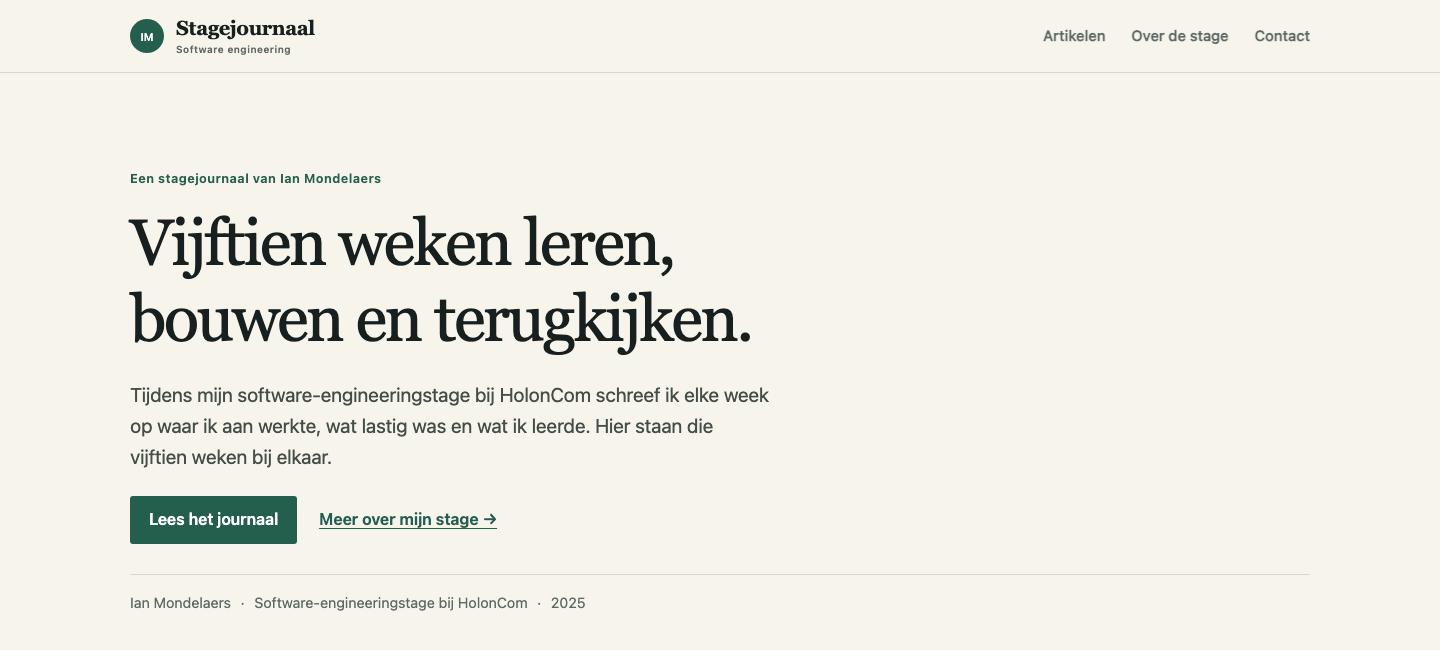
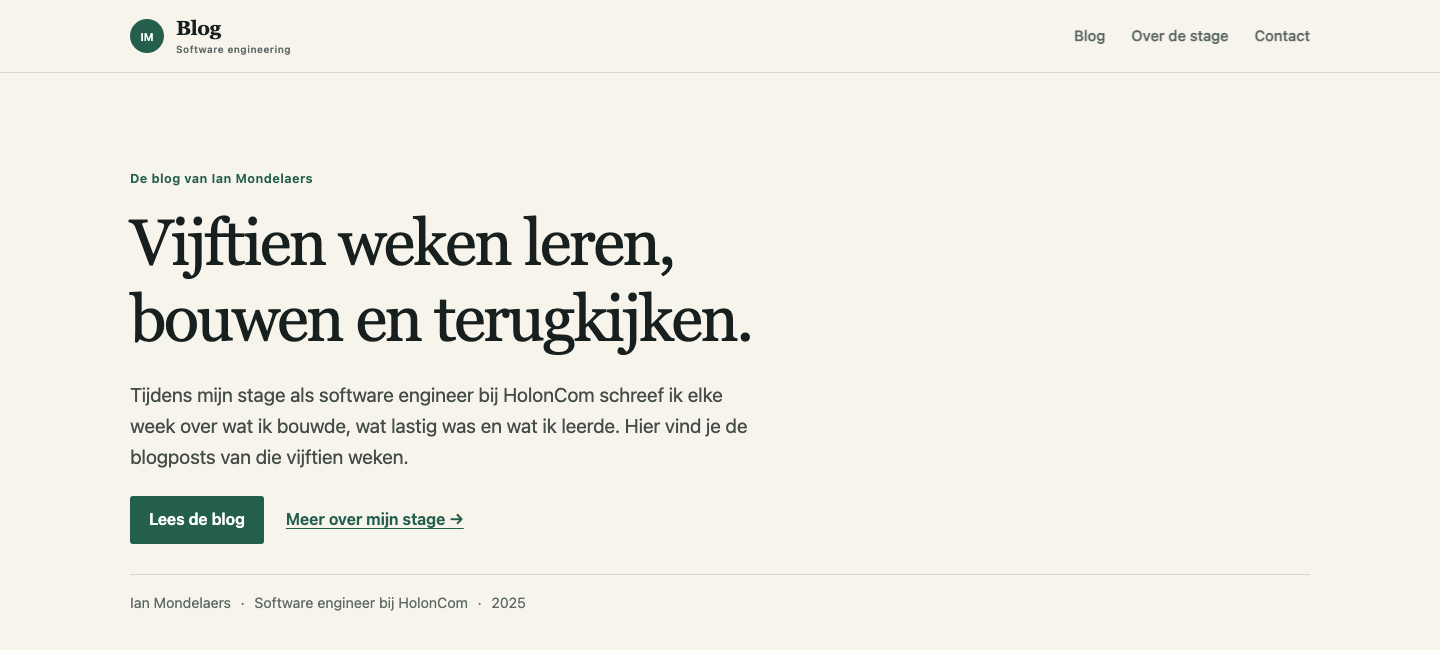
docs: align repository description and homepage preview with blog

diff --git a/README.md b/README.md
@@ -1,17 +1,17 @@
-# Software Engineering Internship Journal
+# Blog van Ian Mondelaers
 
 [![Quality](https://github.com/DenGian/blog/actions/workflows/ci.yml/badge.svg)](https://github.com/DenGian/blog/actions/workflows/ci.yml) [![License: MIT](https://img.shields.io/badge/License-MIT-green.svg)](LICENSE) · [Live site](https://holoncom-blog.vercel.app/)
 
-A deployed Dutch internship journal and a protected single-admin CMS. Live at [holoncom-blog.vercel.app](https://holoncom-blog.vercel.app/). Fifteen original weekly articles document Ian Mondelaers’ workplace learning at HolonCom; the application around them is a production-minded Next.js portfolio project.
+A Dutch blog about Ian Mondelaers’ 15-week internship as a software engineer at HolonCom in 2025, with a protected single-admin CMS. Live at [holoncom-blog.vercel.app](https://holoncom-blog.vercel.app/). The 15 original weekly posts remain historical writing; the application around them is a Next.js portfolio project.
 
-The articles are intentionally kept in Dutch and are not rewritten by the platform.
+The original blogposts remain in Dutch and are not rewritten by the platform.
 
-![Current journal homepage introduction](docs/assets/homepage.png)
+![Blog homepage introduction](docs/assets/homepage.png)
 
 ## What is implemented
 
 - App Router with server components by default and bounded dynamic MongoDB reads
-- Dutch article index, safe search, tag filters, pagination, reading time, adjacent navigation, print styles, and resilient cover images
+- Dutch blogpost index, safe search, tag filters, pagination, reading time, adjacent navigation, print styles, and resilient cover images
 - Encrypted server-side admin session, bcrypt password verification, origin checks, and authorization on every mutation
 - Draft, preview, publish, unpublish, edit, collision-safe slug, and explicit delete workflows
 - Shared Zod validation and restrictive server-side rich HTML sanitization
@@ -105,7 +105,7 @@ Reports use the unambiguous modes `MIGRATION_DRY_RUN`, `MIGRATION_APPLY`, `INDEX
 
 ## Cover media and licensing
 
-The fifteen legacy slugs render project-original, code-native SVG illustrations from `public/covers/`; they were created specifically for this journal and contain no copied photos, logos, fonts, raster data, or external resources. A typed slug map overrides the old database URLs immediately. The optional migration later stores those local paths without downloading or redistributing the former remote images.
+The fifteen legacy slugs render project-original, code-native SVG illustrations from `public/covers/`; they were created specifically for this blog and contain no copied photos, logos, fonts, raster data, or external resources. A typed slug map overrides the old database URLs immediately. The optional migration later stores those local paths without downloading or redistributing the former remote images.
 
 Only upload or reference media you own or are licensed to publish. Prefer local project assets or configured Cloudinary delivery. An arbitrary HTTPS field remains available for appropriately licensed media, but it is not permission to hotlink third-party sites.
 
@@ -131,7 +131,7 @@ The complete internship PDF was not present during the overhaul. Add the real do
 
 ## Deployment
 
-The site is deployed on Vercel. On 24 September 2026, the production site served all 15 original article URLs, all 15 local covers, the sitemap, and the feed. See the [deployment runbook](docs/deployment-runbook.md) and [public-release checklist](docs/public-release.md) for configuration and release checks. Do not run the migration to repair a missing or failing production connection.
+The site is deployed on Vercel. On 24 September 2026, the production site served all 15 original blogpost URLs, all 15 local covers, the sitemap, and the feed. See the [deployment runbook](docs/deployment-runbook.md) and [public-release checklist](docs/public-release.md) for configuration and release checks. Do not run the migration to repair a missing or failing production connection.
 
 ## Limitations and next steps
 
@@ -143,4 +143,4 @@ The site is deployed on Vercel. On 24 September 2026, the production site served
 
 ## License and portfolio context
 
-The application source code is available under the MIT License. Written internship articles, personal photographs, and other original personal media remain © Ian Mondelaers and are not licensed under MIT. See [`LICENSE`](LICENSE) for the standard MIT code license and [`CONTENT_LICENSE.md`](CONTENT_LICENSE.md) for the content boundary.
+The application source code is available under the MIT License. Written internship blogposts, personal photographs, and other original personal media remain © Ian Mondelaers and are not licensed under MIT. See [`LICENSE`](LICENSE) for the standard MIT code license and [`CONTENT_LICENSE.md`](CONTENT_LICENSE.md) for the content boundary.

diff --git a/docs/deployment-runbook.md b/docs/deployment-runbook.md
@@ -1,6 +1,6 @@
 # Deployment and migration runbook
 
-The application is deployed at https://holoncom-blog.vercel.app/. On 24 September 2026, all 15 public article URLs, local covers, sitemap entries, and feed entries were reachable. A read-only local export also confirmed the original posts in `blog_portfolio.posts`. Review Vercel runtime logs and environment scopes if retrieval fails later; do not change data to diagnose connectivity.
+The application is deployed at https://holoncom-blog.vercel.app/. On 24 September 2026, all 15 public blogpost URLs, local covers, sitemap entries, and feed entries were reachable. A read-only local export also confirmed the original posts in `blog_portfolio.posts`. Review Vercel runtime logs and environment scopes if retrieval fails later; do not change data to diagnose connectivity.
 
 ## 1. Rotate credentials
 
@@ -8,7 +8,7 @@ Before relaunch, rotate the old admin credential, MongoDB application credential
 
 ## 2. MongoDB Atlas
 
-1. Create a dedicated application user with read/write access only to the journal database; do not use an Atlas owner or broad cluster-admin credential.
+1. Create a dedicated application user with read/write access only to the blog database; do not use an Atlas owner or broad cluster-admin credential.
 2. Use a separate database/user for preview and automated tests.
 3. Restrict network access according to the Vercel/Atlas integration guidance. Avoid `0.0.0.0/0` where an integration or controlled egress option is available.
 4. Set `MONGODB_URI` and `MONGODB_DATABASE` only in Vercel’s encrypted server environment. Preview and Production variables are separate: a Production-only `MONGODB_URI` is unavailable to pull-request Preview deployments, so configure isolated Preview credentials if Preview database-backed pages or CMS testing must work.
@@ -114,4 +114,4 @@ Passing these checks is not evidence of deployment, penetration testing, an exte
 
 ## 11. Related PDF repository
 
-After this application is public and the real PDF is available here, archive the separate PDF-only repository with a concise redirect to the live journal. If it has no inbound links or independent value, making it private is preferable. Do not modify that repository before confirming links and ownership.
+After this application is public and the real PDF is available here, archive the separate PDF-only repository with a concise redirect to the live blog. If it has no inbound links or independent value, making it private is preferable. Do not modify that repository before confirming links and ownership.

diff --git a/docs/public-release.md b/docs/public-release.md
@@ -8,14 +8,14 @@ This is a preparation checklist. Do not change repository visibility until the p
 2. If the URI is present but connection fails, check that the Atlas user can read `blog_portfolio.posts`, its credential has not expired, and Atlas network access admits the Vercel deployment. Use a least-privilege user. The local read-only export found all 15 legacy posts; a migration is not the connectivity fix.
 3. Replace the old exposed admin password with a new password and set its bcrypt `ADMIN_PASSWORD_HASH`. Configure a distinct `SESSION_SECRET` and both `UPSTASH_REDIS_REST_URL` and `UPSTASH_REDIS_REST_TOKEN` for production login.
 4. Set optional Cloudinary credentials together only if uploads are needed. Check the public GitHub and LinkedIn URLs before setting `NEXT_PUBLIC_GITHUB_URL` and `NEXT_PUBLIC_LINKEDIN_URL`.
-5. Redeploy after editing Vercel variables. Verify all 15 article URLs, sitemap entries, Atom entries, canonical URLs, covers, admin login and logout, then review runtime logs again.
+5. Redeploy after editing Vercel variables. Verify all 15 blogpost URLs, sitemap entries, Atom entries, canonical URLs, covers, admin login and logout, then review runtime logs again.
 6. Give Preview a separate database or a read-only production-data user. Preview must have no production CMS mutation access and must use a different session secret.
 
 See [deployment-runbook.md](deployment-runbook.md) for the complete variable table and migration process.
 
 ## GitHub metadata after review
 
-- Description: `A Dutch software engineering internship journal and Next.js CMS documenting 15 weeks at HolonCom.`
+- Description: `A Dutch blog about 15 weeks as a software engineer at HolonCom, with a Next.js CMS.`
 - Homepage: `https://holoncom-blog.vercel.app/`
 - Topics: `nextjs`, `typescript`, `react`, `mongodb`, `cms`, `blog`, `portfolio`, `vercel`, `playwright`, `vitest`, `accessibility`, `software-engineering`, `internship`, `dutch`.
 - Keep Issues enabled for focused bug reports. Keep Discussions disabled until there is an active moderation plan; Giscus needs a public repository and Discussions, and should be enabled only by a separate manual decision.

diff --git a/CONTENT_LICENSE.md b/CONTENT_LICENSE.md
@@ -1,5 +1,5 @@
 # Written content and personal media
 
-The MIT license in [`LICENSE`](LICENSE) applies to the application source code and its software documentation. It does not grant a license to the internship articles, written reflections, photographs, article-cover artwork, any internship report or PDF, or other original personal media. These remain © Ian Mondelaers, all rights reserved, unless a specific item states otherwise.
+The MIT license in [`LICENSE`](LICENSE) applies to the application source code and its software documentation. It does not grant a license to the internship blogposts, written reflections, photographs, blogpost-cover artwork, any internship report or PDF, or other original personal media. These remain © Ian Mondelaers, all rights reserved, unless a specific item states otherwise.
 
 Third-party material remains subject to its owners' terms. Contact the owner through the verified public channels on the website to request permission for content reuse.

diff --git a/CONTRIBUTING.md b/CONTRIBUTING.md
@@ -1,11 +1,11 @@
 # Contributing
 
-This is a personal portfolio and journal, but focused bug fixes and accessibility or security improvements are welcome.
+This is a personal portfolio and blog, but focused bug fixes and accessibility or security improvements are welcome.
 
 1. Use Node.js 22 and run `npm ci`.
 2. Copy `.env.example` to `.env.local`; never commit real values.
 3. Use an isolated development or test database. Never mutate the existing content database during tests.
-4. Create a focused branch and keep article wording, dates, slugs, tags, and media unchanged unless the author explicitly requests an editorial change.
+4. Create a focused branch and keep original blogpost wording, dates, slugs, tags, and media unchanged unless the author explicitly requests an editorial change.
 5. Run `npm run check` and the isolated `npm run test:e2e` before proposing a change.
 6. Respect the code/content license boundary in `LICENSE` and `CONTENT_LICENSE.md`.
 
